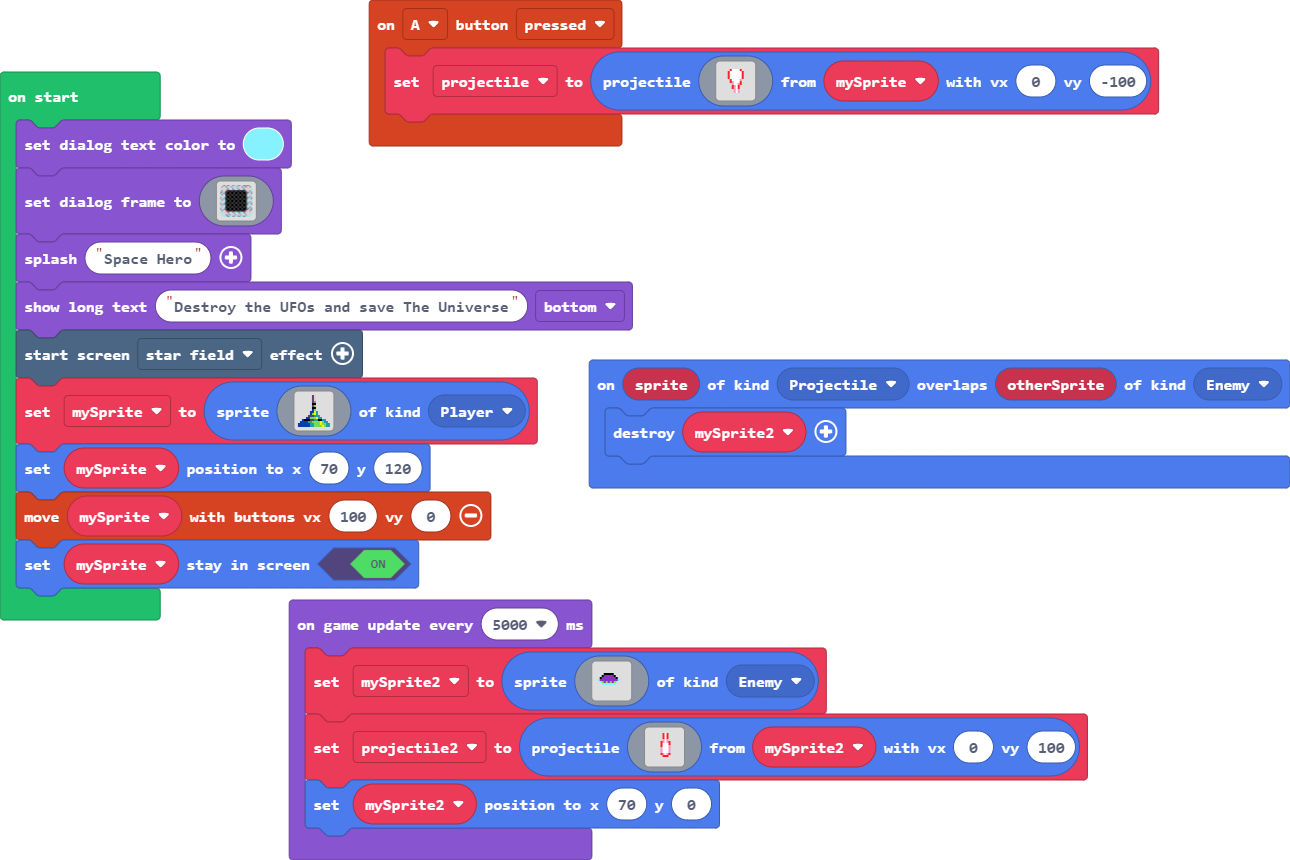
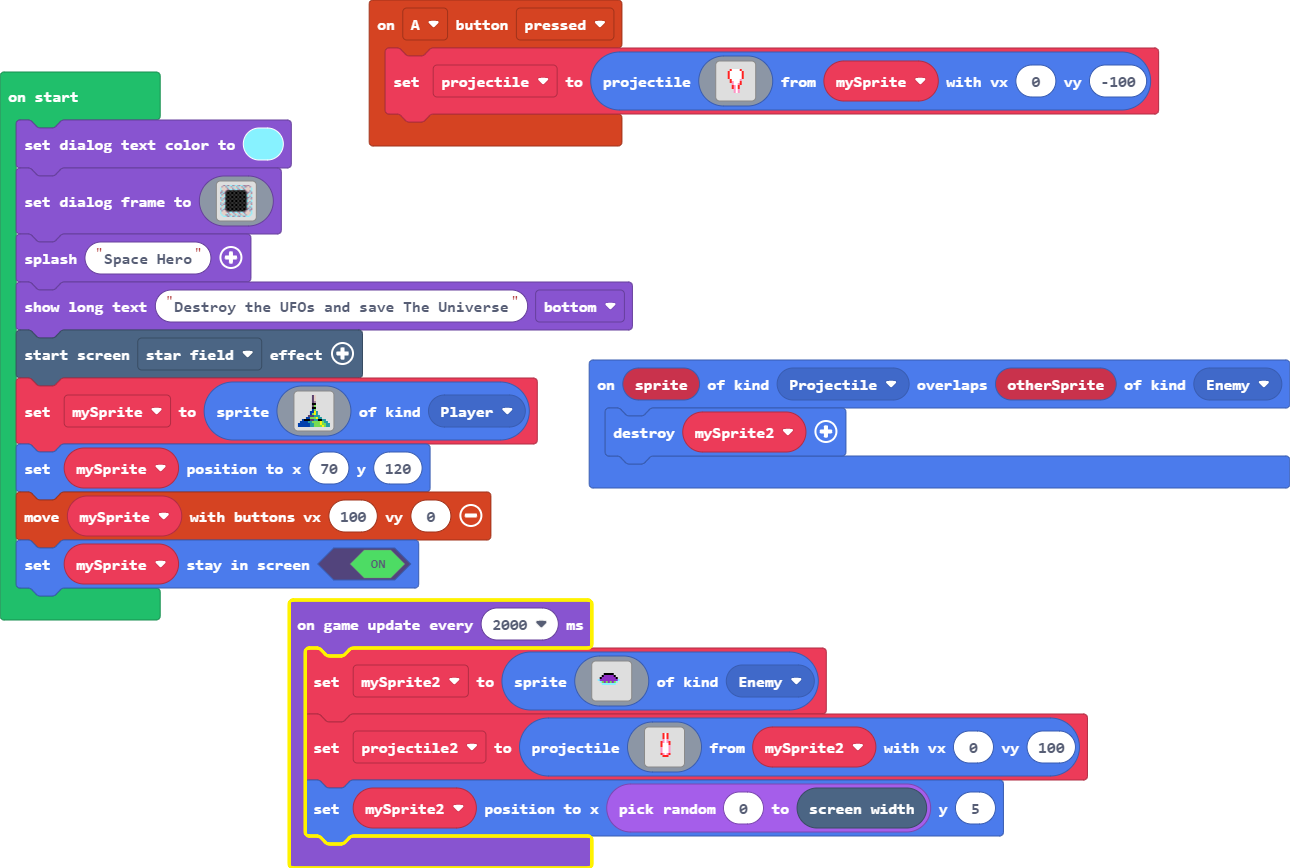
Update main.blocks, main.ts

diff --git a/main.ts b/main.ts
@@ -59,7 +59,7 @@ mySprite = sprites.create(img`
 mySprite.setPosition(70, 120)
 controller.moveSprite(mySprite, 100, 0)
 mySprite.setStayInScreen(true)
-game.onUpdateInterval(5000, function () {
+game.onUpdateInterval(2000, function () {
     mySprite2 = sprites.create(img`
         . . . . . . . . . . . . . . . . 
         . . . . . . . . . . . . . . . . 
@@ -96,5 +96,5 @@ game.onUpdateInterval(5000, function () {
         . . . . . . . . . . . . . . . . 
         . . . . . . . . . . . . . . . . 
         `, mySprite2, 0, 100)
-    mySprite2.setPosition(70, 0)
+    mySprite2.setPosition(randint(0, scene.screenWidth()), 5)
 })
